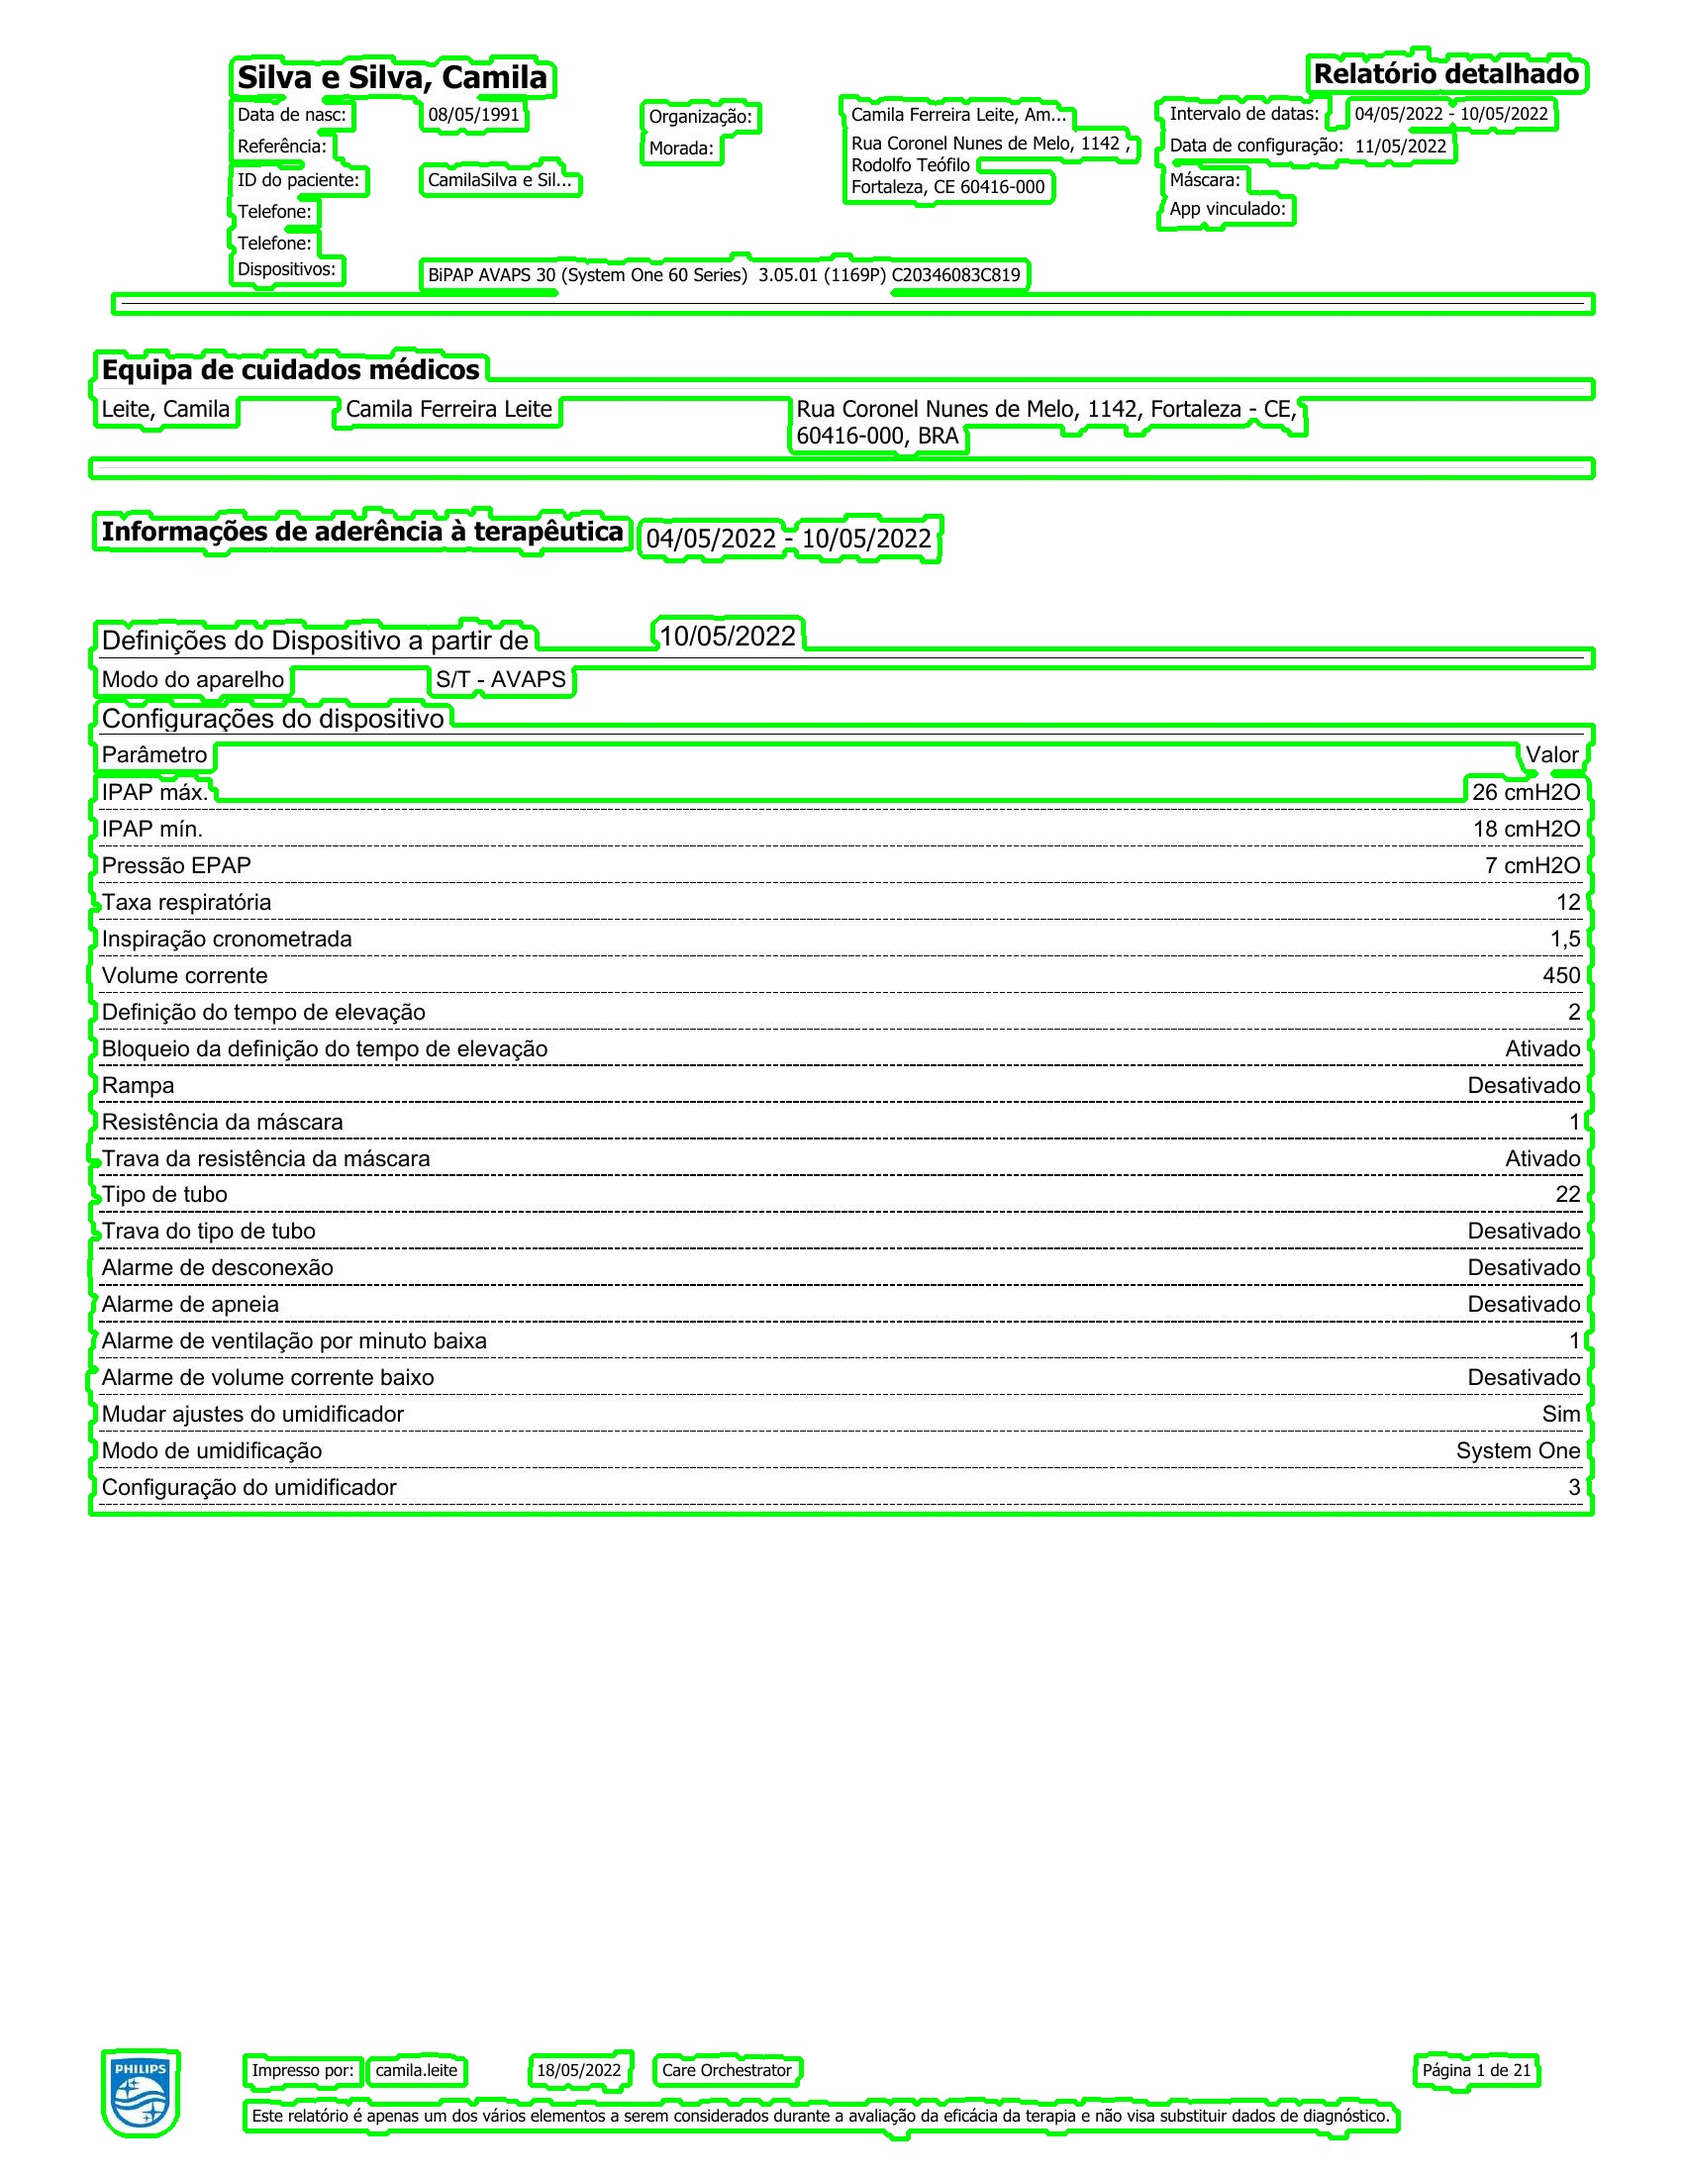
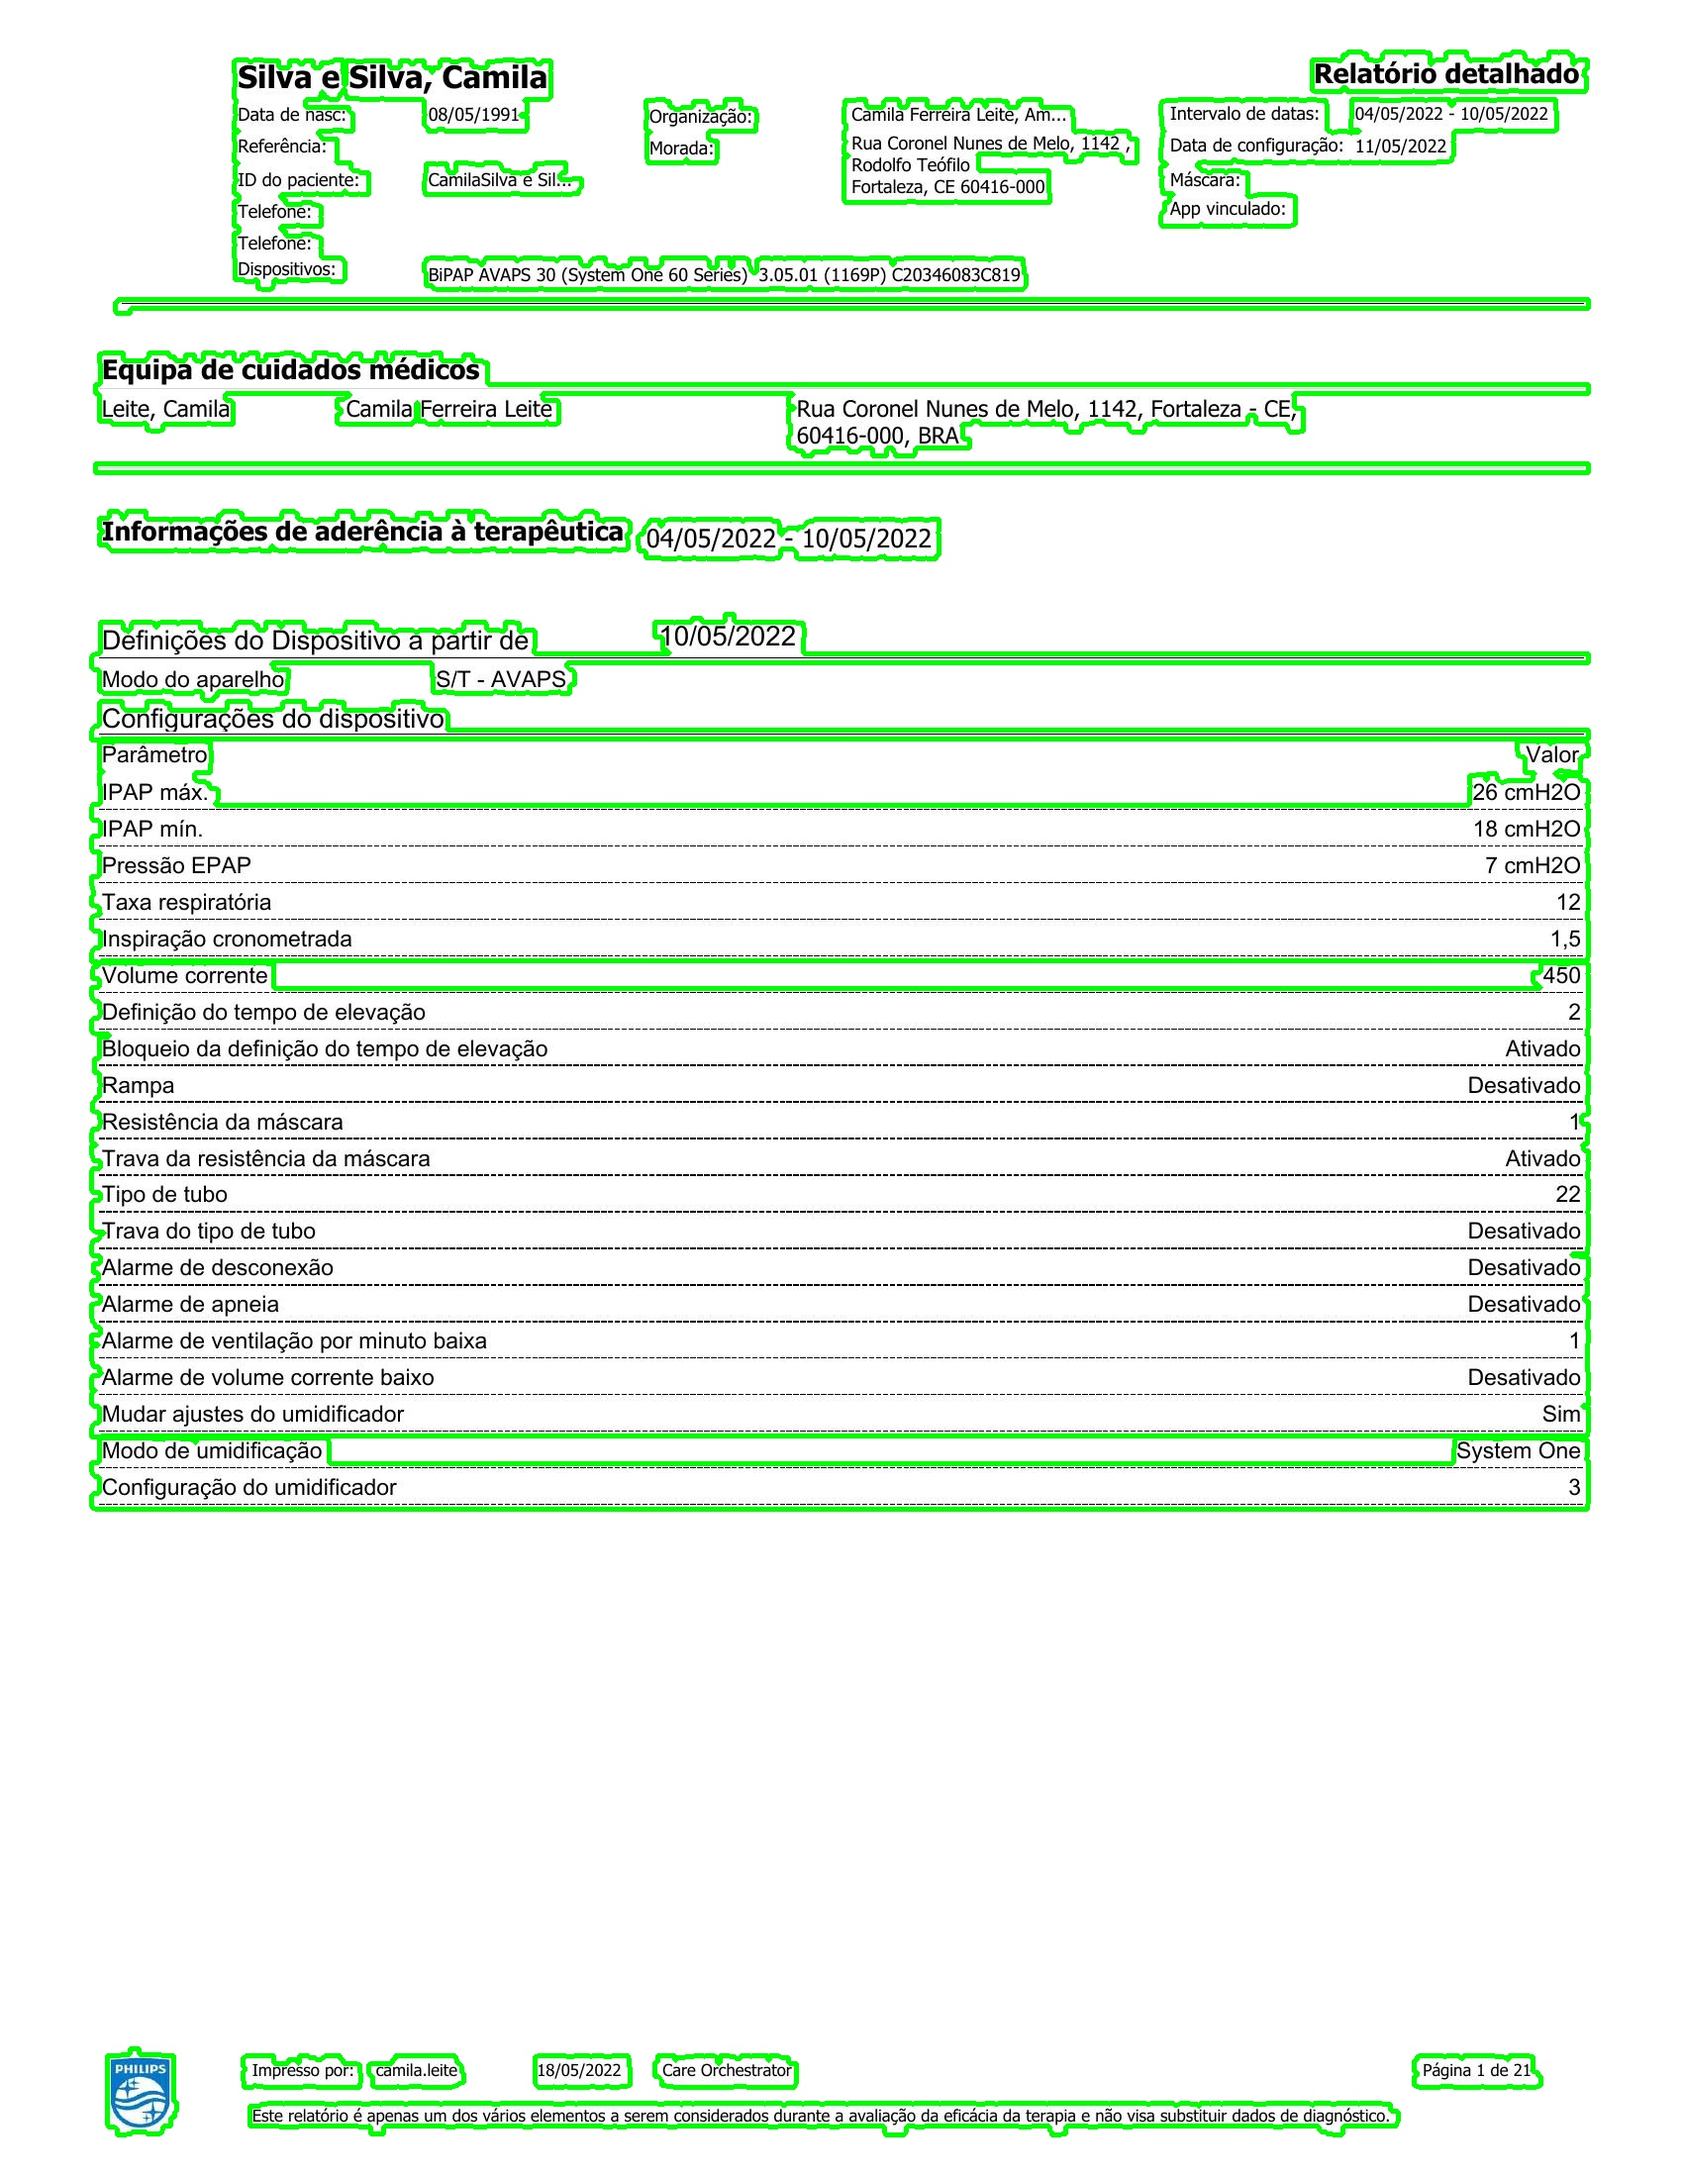
adicionadas outras versões do código

diff --git a/OCR.py b/OCR.py
@@ -3,11 +3,11 @@ import cv2
 import pytesseract
 
 # Mention the installed location of Tesseract-OCR in your system
-pytesseract.pytesseract.tesseract_cmd = r'C:\Program Files\Tesseract-OCR\tesseract.exe'
+pytesseract.pytesseract.tesseract_cmd = r"C:\Program Files\Tesseract-OCR\tesseract.exe"
 
 # from pdf2image import convert_from_path
- 
- 
+
+
 # images = convert_from_path('bipap.pdf',poppler_path=r'C:\Users\ALUNOS\Downloads\poppler-24.02.0\Library\bin')
 # images[0].save('relatorio.jpg', 'JPEG')
 
@@ -20,13 +20,15 @@ img = cv2.imread("relatorio.jpg")
 gray = cv2.cvtColor(img, cv2.COLOR_BGR2GRAY)
 
 # Aplicando suavização com filtro Gaussiano
-gray = cv2.GaussianBlur(gray, (5, 5), 0)
+# gray = cv2.GaussianBlur(gray, (5, 5), 0)
 
 # Salva a nova imagem com os contornos
 cv2.imwrite("imagem_gray.jpg", gray)
 
 # Aplicando a limiarização adaptativa
-thresh1 = cv2.adaptiveThreshold(gray, 255, cv2.ADAPTIVE_THRESH_GAUSSIAN_C, cv2.THRESH_BINARY_INV, 11, 2)
+thresh1 = cv2.adaptiveThreshold(
+    gray, 255, cv2.ADAPTIVE_THRESH_GAUSSIAN_C, cv2.THRESH_BINARY_INV, 5, 5
+)
 
 # Performing OTSU threshold
 # ret, thresh1 = cv2.threshold(gray, 0, 255, cv2.THRESH_OTSU | cv2.THRESH_BINARY_INV)
@@ -34,12 +36,12 @@ thresh1 = cv2.adaptiveThreshold(gray, 255, cv2.ADAPTIVE_THRESH_GAUSSIAN_C, cv2.T
 # Salva a nova imagem com os contornos
 cv2.imwrite("thresh1.jpg", thresh1)
 
-# Specify structure shape and kernel size. 
-# Kernel size increases or decreases the area 
+# Specify structure shape and kernel size.
+# Kernel size increases or decreases the area
 # of the rectangle to be detected.
-# A smaller value like (10, 10) will detect 
+# A smaller value like (10, 10) will detect
 # each word instead of a sentence.
-rect_kernel = cv2.getStructuringElement(cv2.MORPH_RECT, (18, 18))
+rect_kernel = cv2.getStructuringElement(cv2.MORPH_RECT, (10, 10))
 
 # Applying dilation on the threshold image
 dilation = cv2.dilate(thresh1, rect_kernel, iterations=1)
@@ -47,8 +49,9 @@ dilation = cv2.dilate(thresh1, rect_kernel, iterations=1)
 cv2.imwrite("dilation.jpg", dilation)
 
 # Finding contours
-contours, hierarchy = cv2.findContours(dilation, cv2.RETR_EXTERNAL, 
-												cv2.CHAIN_APPROX_NONE)
+contours, hierarchy = cv2.findContours(
+    dilation, cv2.RETR_EXTERNAL, cv2.CHAIN_APPROX_NONE
+)
 
 # Creating a copy of image
 im2 = img.copy()
@@ -76,23 +79,23 @@ contours = sorted(contours, key=lambda x: cv2.boundingRect(x)[1])
 # to pytesseract for extracting text from it
 # Extracted text is then written into the text file
 for cnt in contours:
-	x, y, w, h = cv2.boundingRect(cnt)
-	
-	# Drawing a rectangle on copied image
-	rect = cv2.rectangle(im2, (x, y), (x + w, y + h), (0, 255, 0), 2)
-	
-	# Cropping the text block for giving input to OCR
-	cropped = im2[y:y + h, x:x + w]
-	
-	# Open the file in append mode
-	file = open("relatorioEmTexto.txt", "a")
-	
-	# Apply OCR on the cropped image
-	text = pytesseract.image_to_string(cropped,lang="por")
-	
-	# Appending the text into file
-	file.write(text)
-	file.write("\n")
-	
-	# Close the file
-	file.close
+    x, y, w, h = cv2.boundingRect(cnt)
+
+    # Drawing a rectangle on copied image
+    rect = cv2.rectangle(im2, (x, y), (x + w, y + h), (0, 255, 0), 2)
+
+    # Cropping the text block for giving input to OCR
+    cropped = im2[y : y + h, x : x + w]
+
+    # Open the file in append mode
+    file = open("relatorioEmTexto.txt", "a")
+
+    # Apply OCR on the cropped image
+    text = pytesseract.image_to_string(cropped, lang="por")
+
+    # Appending the text into file
+    file.write(text)
+    file.write("\n")
+
+    # Close the file
+    file.close

diff --git a/OCR_V2.py b/OCR_V2.py
@@ -1,0 +1,56 @@
+# Import required packages
+import cv2
+import pytesseract
+
+# Mention the installed location of Tesseract-OCR in your system
+pytesseract.pytesseract.tesseract_cmd = r"C:\Program Files\Tesseract-OCR\tesseract.exe"
+
+imagem = cv2.imread("relatorio.jpg")
+
+# Convertendo a imagem para escala de cinza
+imagem_cinza = cv2.cvtColor(imagem, cv2.COLOR_BGR2GRAY)
+
+# Aplicando binarização (thresholding)
+_, imagem_binaria = cv2.threshold(imagem_cinza, 128, 255, cv2.THRESH_BINARY)
+
+# Ajustando o contraste (opcional)
+alpha = 1  # Fator de contraste
+beta = 1  # Fator de brilho
+imagem_processada = cv2.convertScaleAbs(imagem_binaria, alpha=alpha, beta=beta)
+
+# Exibindo a imagem original e a imagem processada
+# cv2.imshow("Imagem Original", imagem)
+# cv2.imshow("Imagem Processada", imagem_processada)
+# cv2.waitKey(0)
+# cv2.destroyAllWindows()
+
+# Detecção de contornos na imagem
+contornos, _ = cv2.findContours(
+    imagem_binaria, cv2.RETR_EXTERNAL, cv2.CHAIN_APPROX_SIMPLE
+)
+
+# Iterando sobre os contornos encontrados
+for contorno in contornos:
+    # Ignorando contornos muito pequenos
+    if cv2.contourArea(contorno) > 100:
+        # Obtendo as coordenadas do retângulo que envolve o contorno
+        x, y, w, h = cv2.boundingRect(contorno)
+
+        # Desenhando o retângulo na imagem original
+        cv2.rectangle(imagem, (x, y), (x + w, y + h), (0, 255, 0), 2)
+
+        # Recortando a região de texto da imagem original
+        regiao_texto = imagem[y : y + h, x : x + w]
+
+        # Aplicando OCR na região de texto
+        texto_detectado = pytesseract.image_to_string(
+            regiao_texto, lang="por"
+        )  # Use o idioma adequado
+
+        # Imprimindo o texto detectado
+        print(f"Texto Detectado: {texto_detectado}")
+
+# Exibindo a imagem com os contornos e retângulos
+cv2.imshow("Imagem com Contornos", imagem)
+cv2.waitKey(0)
+cv2.destroyAllWindows()

diff --git a/OCR3.py b/OCR3.py
@@ -1,0 +1,32 @@
+import cv2
+import pytesseract
+from pytesseract import Output
+
+img = cv2.imread("relatorio.jpg")
+pytesseract.pytesseract.tesseract_cmd = r"C:\Program Files\Tesseract-OCR\tesseract.exe"
+
+gray = cv2.cvtColor(img, cv2.COLOR_BGR2GRAY)
+
+# Aplicando suavização com filtro Gaussiano
+gray = cv2.GaussianBlur(gray, (5, 5), 0)
+
+# Aplicando a limiarização adaptativa
+thresh1 = cv2.adaptiveThreshold(
+    gray, 255, cv2.ADAPTIVE_THRESH_GAUSSIAN_C, cv2.THRESH_BINARY_INV, 5, 5
+)
+
+rect_kernel = cv2.getStructuringElement(cv2.MORPH_RECT, (10, 10))
+
+# Applying dilation on the threshold image
+dilation = cv2.dilate(thresh1, rect_kernel, iterations=1)
+
+d = pytesseract.image_to_data(img, output_type=Output.DICT, lang="por")
+
+n_boxes = len(d["text"])
+for i in range(n_boxes):
+    if int(d["conf"][i]) > 60:
+        (x, y, w, h) = (d["left"][i], d["top"][i], d["width"][i], d["height"][i])
+        img = cv2.rectangle(img, (x, y), (x + w, y + h), (0, 255, 0), 2)
+
+cv2.imshow("img", img)
+cv2.waitKey(0)
